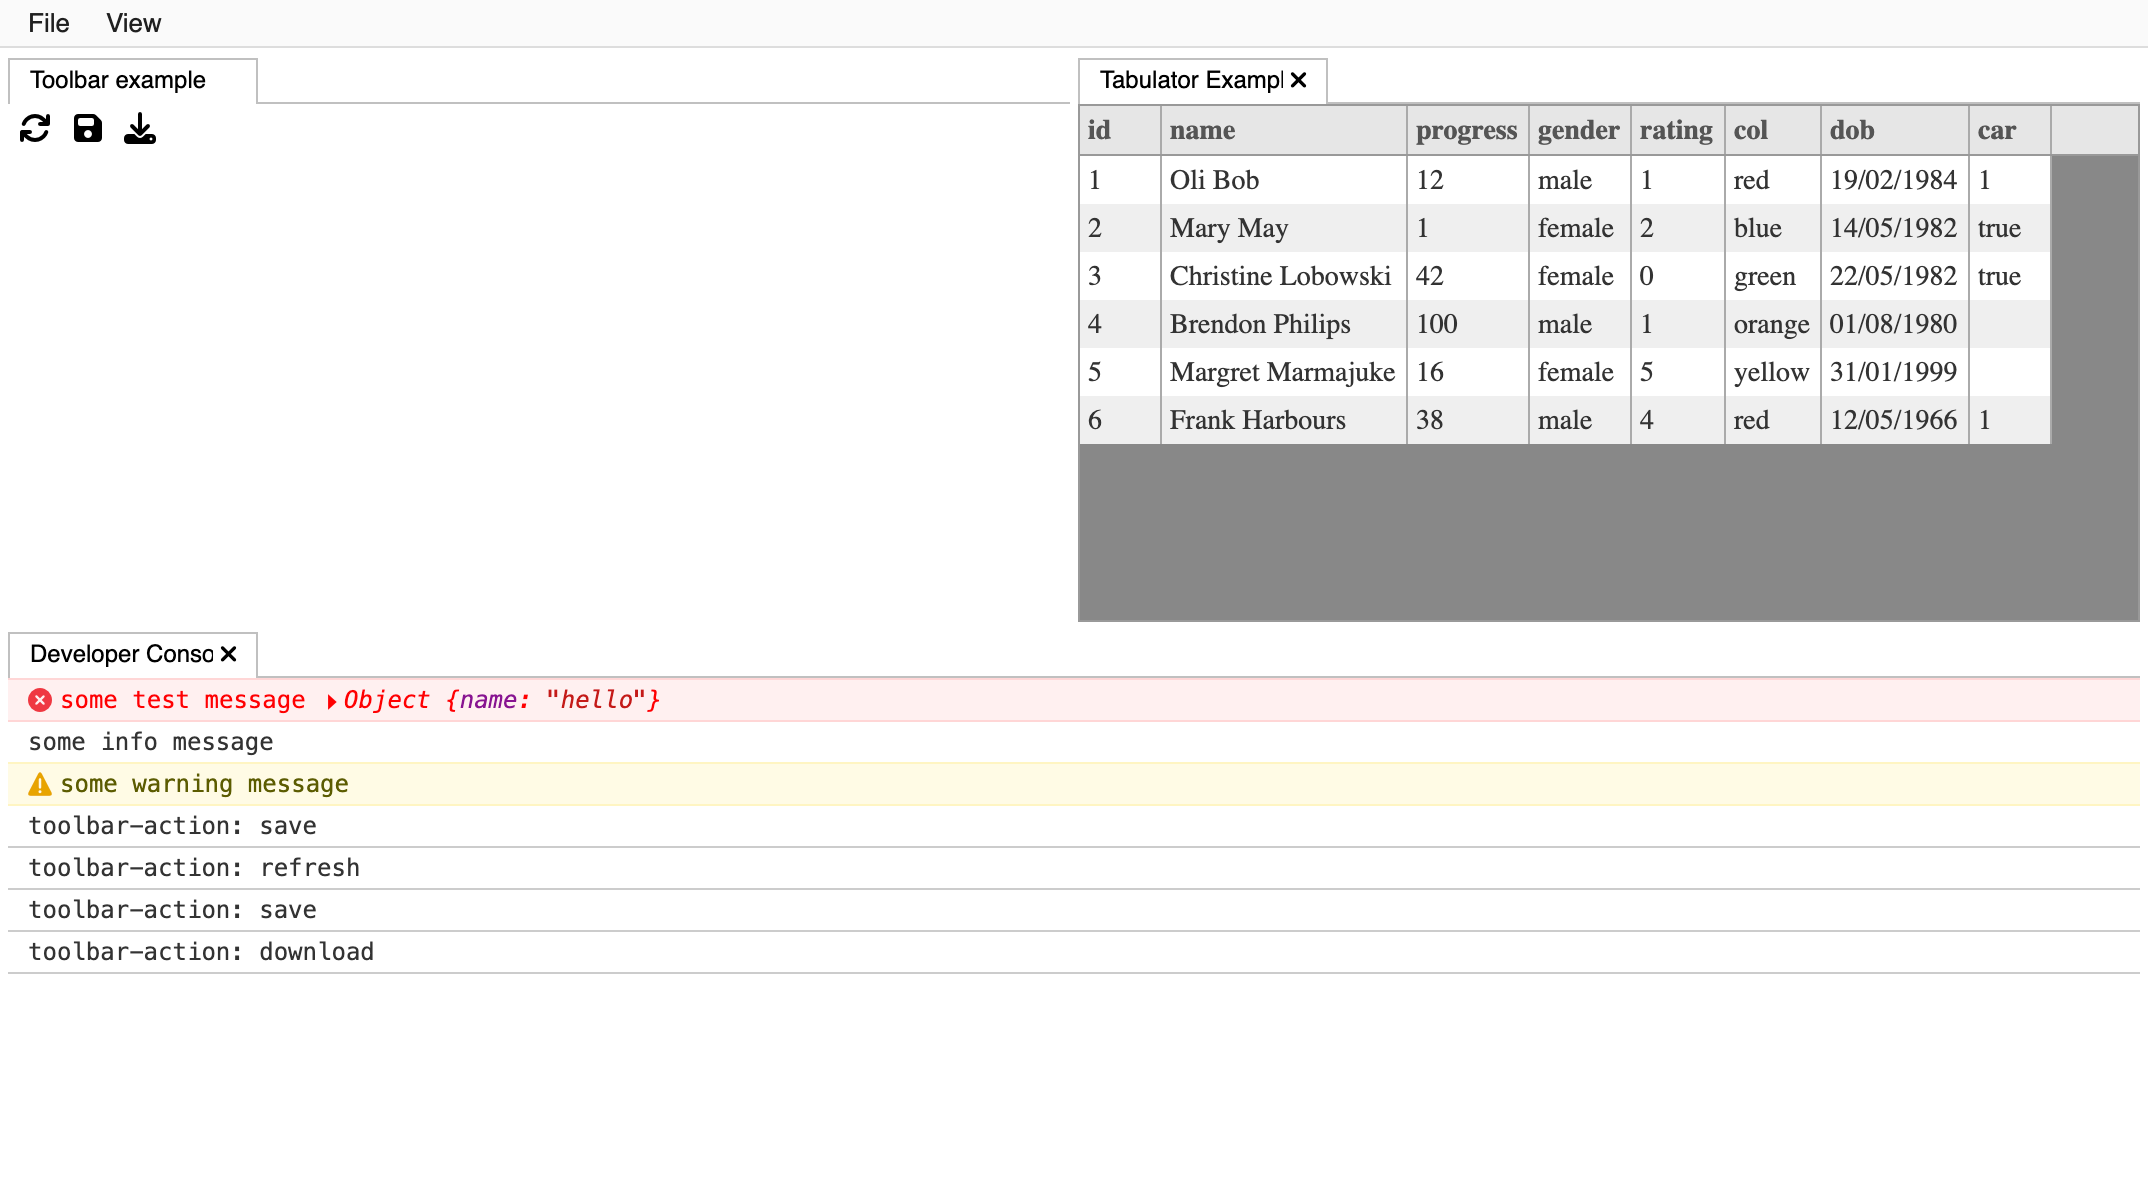
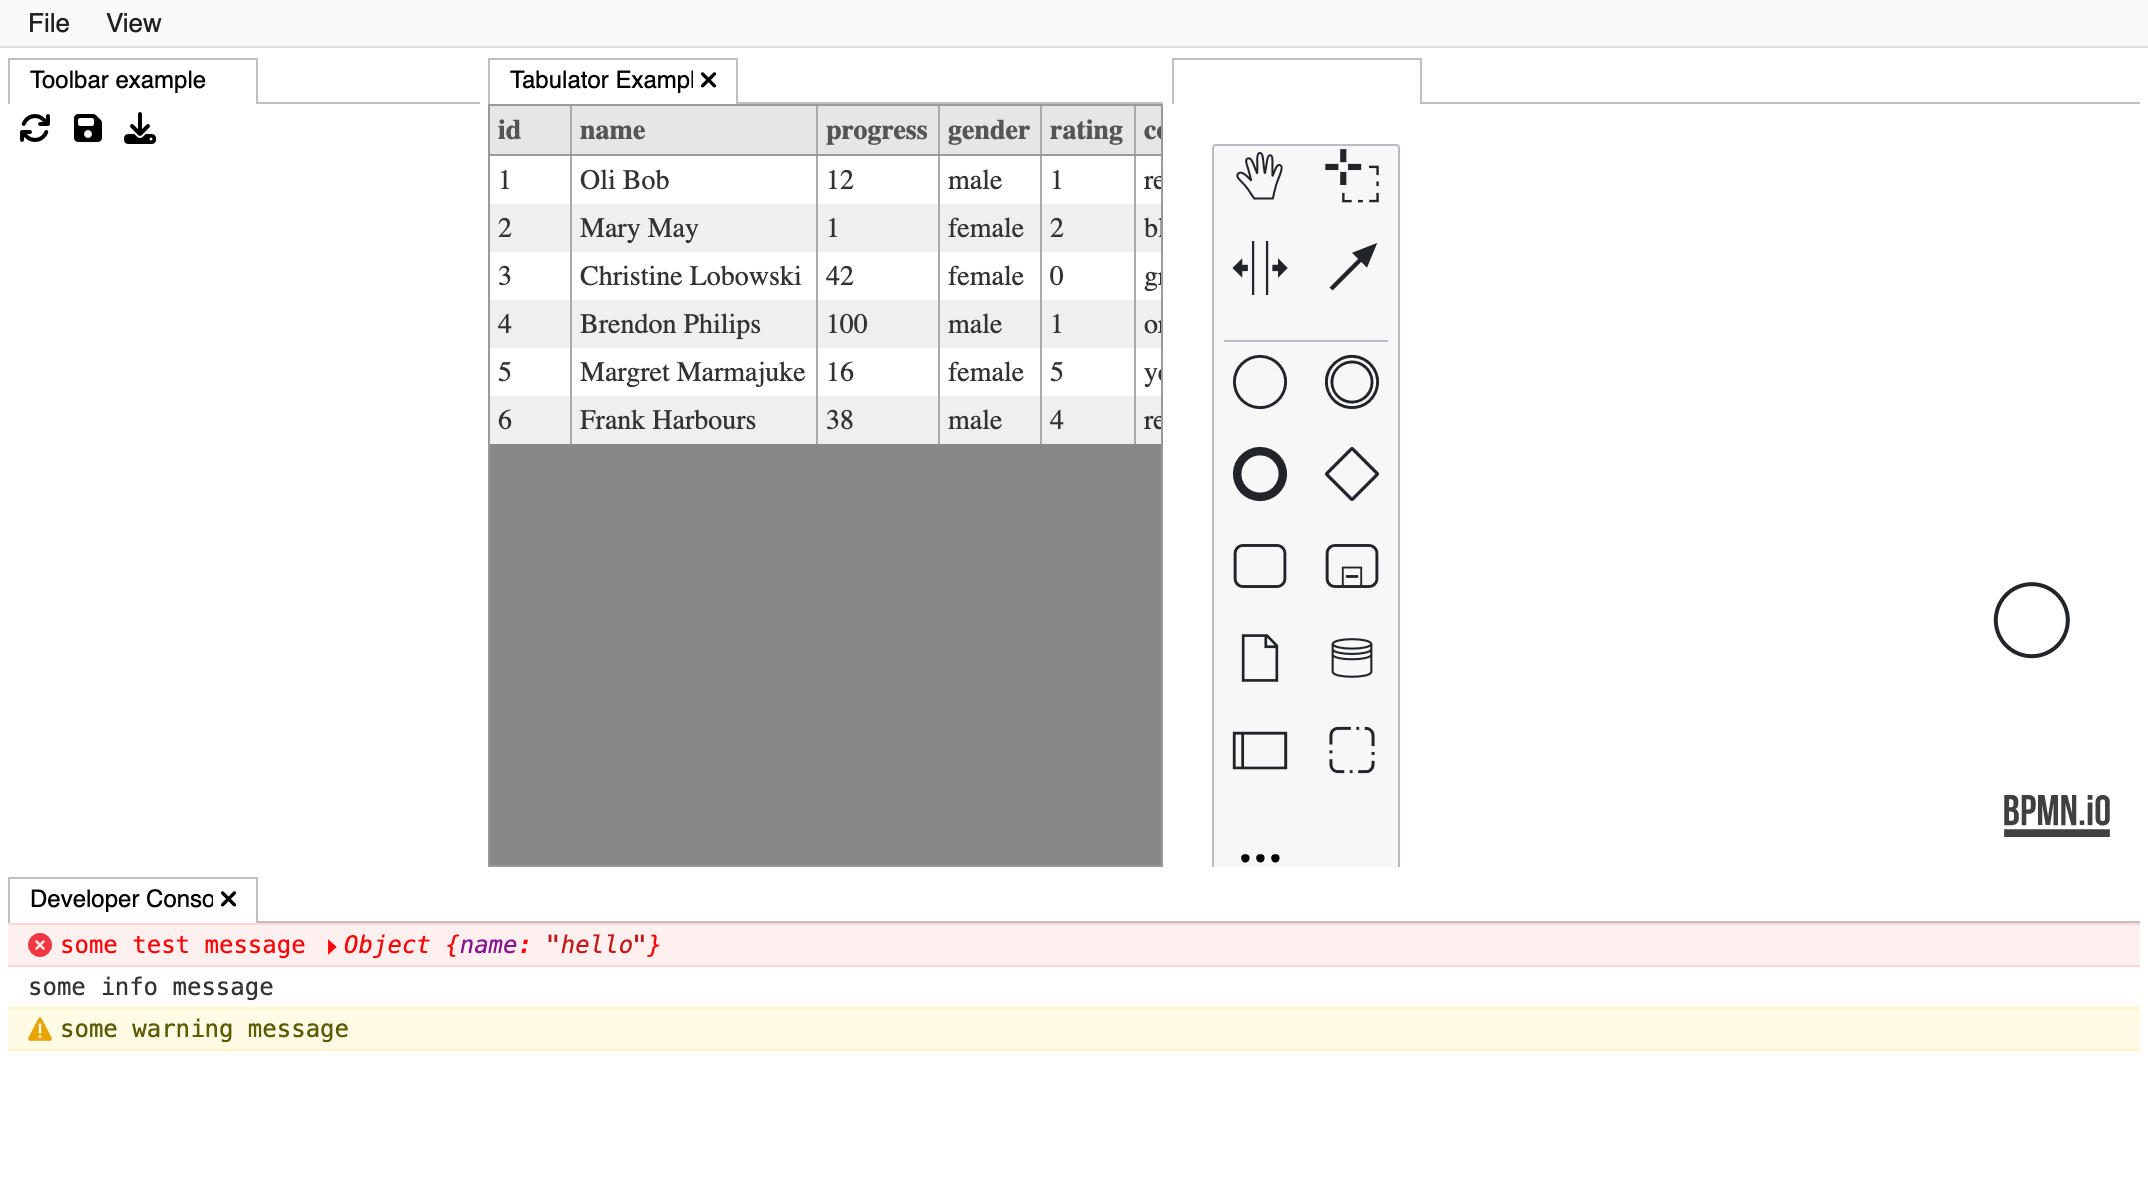
BPMN Editor

diff --git a/src/index.ts b/src/index.ts
@@ -1,8 +1,10 @@
-import { BoxPanel, StackedPanel, Widget, DockPanel,MenuBar,Menu } from "@lumino/widgets";
+import { BoxPanel, BoxLayout, Widget, DockPanel,MenuBar,Menu } from "@lumino/widgets";
 import { CommandRegistry } from '@lumino/commands';
 import { DeveloperConsole } from "./widgets/DeveloperConsole";
 import { TabulatorPanel } from "./widgets/Tabulator";
 import { Toolbar } from "./widgets/Toolbar";
+import { BPMNEditor } from "./widgets/BPMNEditor";
+import { bpmnXML } from "./sample.data";
 
 
 function createContent(msg:string){
@@ -87,6 +89,14 @@ function createToolbar(terminal){
     return widget1;
 }
 
+function createBPMNEditor(){
+    var editor = new BPMNEditor();
+    editor.setXML(bpmnXML);
+    var w = new BoxPanel();
+    BoxLayout.setStretch(editor,1);
+    w.addWidget(editor);
+    return w;
+}
 function main() {
  
 
@@ -112,8 +122,9 @@ function main() {
     //add developer console
     dock.addWidget(terminal, { mode: 'split-bottom', ref: widget1 });
     //tabulator example
-    dock.addWidget(createTabulatorPanel(), { mode: 'split-right', ref: widget1 });
-    
+    var tabulatorWidget = createTabulatorPanel();
+    dock.addWidget( tabulatorWidget,{ mode: 'split-right', ref: widget1 });
+    dock.addWidget(createBPMNEditor(),{ mode: 'split-right', ref: tabulatorWidget })
 
 }
 

diff --git a/src/sample.data.js b/src/sample.data.js
@@ -1,0 +1,13 @@
+export const bpmnXML = `<?xml version="1.0" encoding="UTF-8"?>
+<bpmn2:definitions xmlns:xsi="http://www.w3.org/2001/XMLSchema-instance" xmlns:bpmn2="http://www.omg.org/spec/BPMN/20100524/MODEL" xmlns:bpmndi="http://www.omg.org/spec/BPMN/20100524/DI" xmlns:dc="http://www.omg.org/spec/DD/20100524/DC" xmlns:di="http://www.omg.org/spec/DD/20100524/DI" xsi:schemaLocation="http://www.omg.org/spec/BPMN/20100524/MODEL BPMN20.xsd" id="sample-diagram" targetNamespace="http://bpmn.io/schema/bpmn">
+  <bpmn2:process id="Process_1" isExecutable="false">
+    <bpmn2:startEvent id="StartEvent_1"/>
+  </bpmn2:process>
+  <bpmndi:BPMNDiagram id="BPMNDiagram_1">
+    <bpmndi:BPMNPlane id="BPMNPlane_1" bpmnElement="Process_1">
+      <bpmndi:BPMNShape id="_BPMNShape_StartEvent_2" bpmnElement="StartEvent_1">
+        <dc:Bounds height="36.0" width="36.0" x="412.0" y="240.0"/>
+      </bpmndi:BPMNShape>
+    </bpmndi:BPMNPlane>
+  </bpmndi:BPMNDiagram>
+</bpmn2:definitions>`;

diff --git a/src/widgets/BPMNEditor.ts b/src/widgets/BPMNEditor.ts
@@ -1,0 +1,20 @@
+import { Widget } from "@lumino/widgets";
+import BpmnModeler from 'bpmn-js/lib/Modeler';
+export class BPMNEditor extends Widget{
+    modeler: any;
+    constructor(){
+        super({
+            node : document.createElement("div")
+        });
+        this.modeler = new BpmnModeler({
+            container: this.node,
+          });
+    }
+
+    setXML(bpmn:string){
+        this.modeler.importXML(bpmn).then(function(){
+            console.log("BPMN loaded");
+        })
+    }
+
+}

diff --git a/src/app.css b/src/app.css
@@ -13,6 +13,10 @@
 @import '../node_modules/@lumino/default-theme/style/tabbar.css';
 @import  "../node_modules/tabulator-tables/dist/css/tabulator.min.css";
 
+@import  "../node_modules/bpmn-js/dist/assets/diagram-js.css";
+@import  "../node_modules/bpmn-js/dist/assets/bpmn-js.css";
+@import  "../node_modules/bpmn-js/dist/assets/bpmn-font/css/bpmn-embedded.css";
+
 #main{
     flex: auto 1 1;
 }

diff --git a/README.md b/README.md
@@ -12,6 +12,7 @@ Starter template for lumino js
  - Chrome style developer console widget
  - Tabulator widget to show advanced grid
  - Toolbar widget
+ - BPMN Editor
 
 ## Install
 ```
@@ -22,6 +23,8 @@ yarn install
  - [Lumino](https://github.com/jupyterlab/lumino)
  - [Luna](https://luna.liriliri.io/?path=/story/console--console)
  - [Tabulator](https://tabulator.info/)
+ - [BPMN IO](https://bpmn.io/)
+  
 ## Run / Build
 ```
 yarn run build
